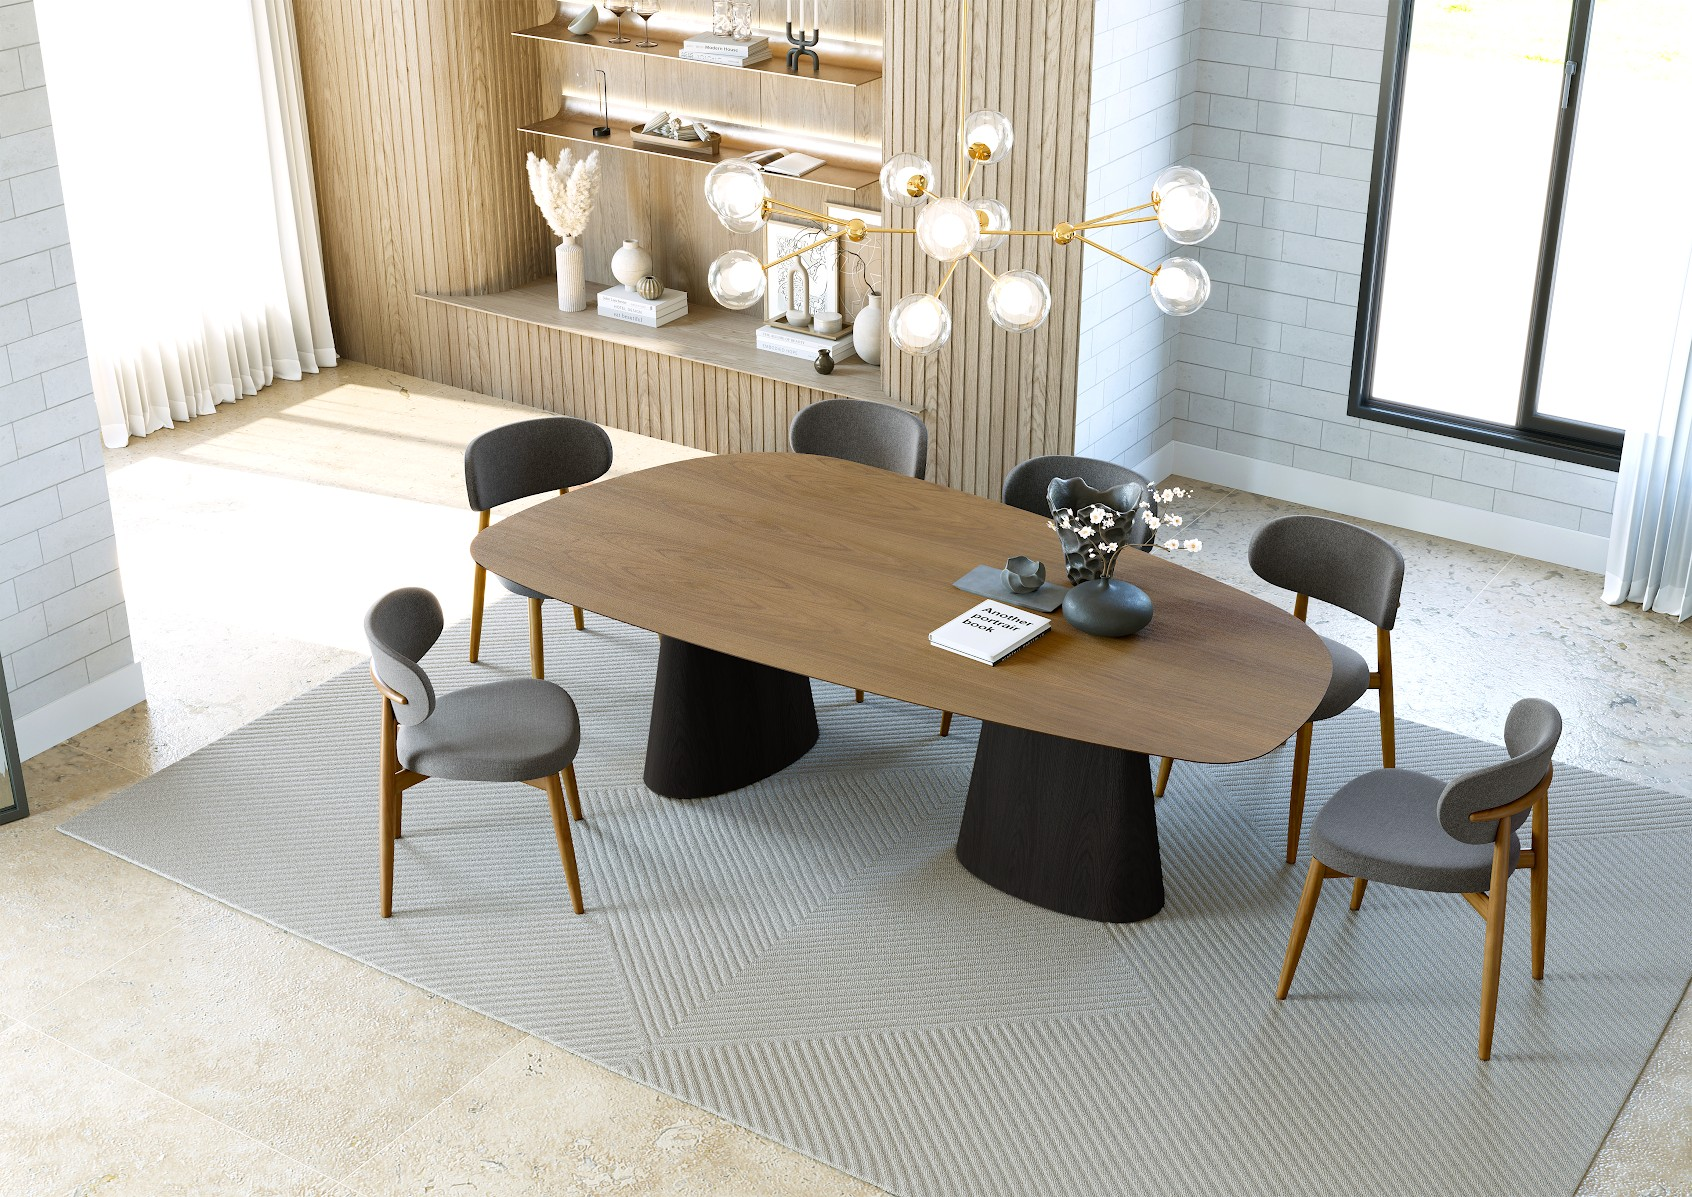
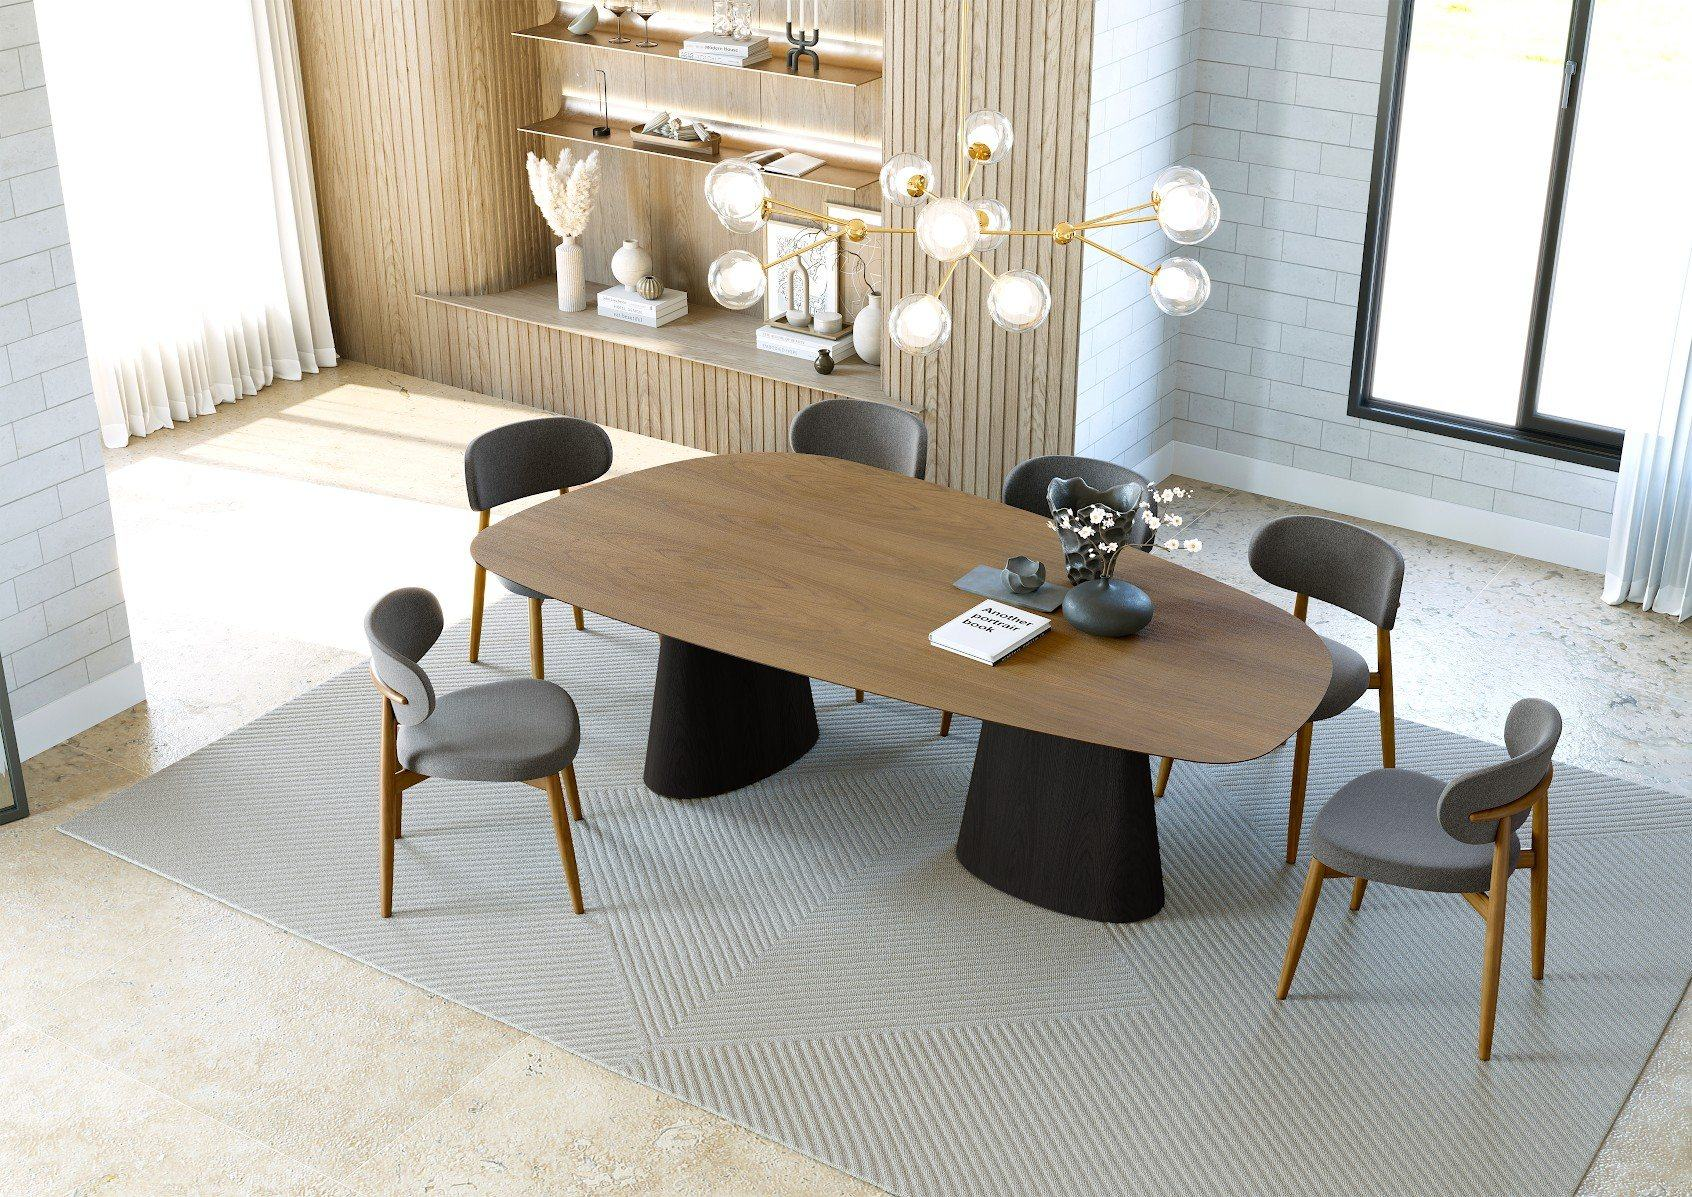
Mesa Allegra tapa almendra y base ébano: foto principal y ambiente
Claude-Session: https://claude.ai/code/session_01CGCz11iLih3TFmj8JTgkSP

Changed region(s): [[0.461, 0.1855, 0.5225, 0.2164], [0.6147, 0.1855, 0.6454, 0.2164]]

diff --git a/js/productos.js b/js/productos.js
@@ -291,7 +291,7 @@ const productos = [
         "descripcion": "El mayor exponente del diseño orgánico minimalista, por su geometría de notable belleza, aporta ligereza y refinamiento.",
         "colores": [
             { "nombre": "Almendra", "archivo": "mesa-allegra-almendra", "fondo": "#D8C6AA" },
-            { "nombre": "Tapa almendra · Base ébano", "fotos": ["mesa-allegra-tapa-almendra-base-ebano-3"], "fondo": "linear-gradient(135deg, #D8C6AA 50%, #2E2622 50%)" },
+            { "nombre": "Tapa almendra · Base ébano", "fotos": ["mesa-allegra-tapa-almendra-base-ebano", "mesa-allegra-tapa-almendra-base-ebano-3"], "fondo": "linear-gradient(135deg, #D8C6AA 50%, #2E2622 50%)" },
             { "nombre": "Ébano", "archivo": "mesa-allegra-ebano", "fondo": "#2E2622", "combina": ["silla-jolie|silla-jolie-ebano", "silla-gisele"] }
         ],
         "specs": [

diff --git a/catalogo.html b/catalogo.html
@@ -376,7 +376,7 @@
             <article class="tarjeta" data-categoria="mesas">
                 <a class="foto-link" href="ficha-producto.html?id=mesa-allegra&amp;color=Tapa%20almendra%20%C2%B7%20Base%20%C3%A9bano" aria-label="Ver Mesa Allegra, tapa almendra y base ébano">
                     <div class="tarjeta-foto">
-                        <img loading="lazy" decoding="async" src="img/productos/mesa-allegra-tapa-almendra-base-ebano-3.jpg" alt="Mesa Allegra tapa almendra y base ébano">
+                        <img loading="lazy" decoding="async" src="img/productos/mesa-allegra-tapa-almendra-base-ebano.jpg" alt="Mesa Allegra tapa almendra y base ébano">
                     </div>
                 </a>
                 <p class="categoria">Mesas</p>
